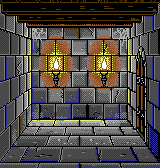
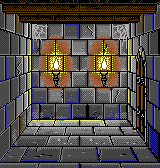
Catacombs rooms: dark beamed ceiling

Changed region(s): [[0.0, 0.0, 1.0, 0.2381]]

diff --git a/Catacombs/art/room_art.py b/Catacombs/art/room_art.py
@@ -167,8 +167,9 @@ def door(du, dv, state, tag, planks=4):
 # The ray caster: screen position -> (region id, material, texel a, texel b, level bias, X, Y, Z)
 # ---------------------------------------------------------------------------
 
-BEAMS = [(198.0, 12.0), (246.0, 11.0), (292.0, 10.0)]
-BEAM_Y = -26.5
+BEAMS = [(200.0, 9.0), (258.0, 9.0)]      # ceiling beams across the room: (depth, thickness)
+BEAM_Y = -27.5
+FIXED = 100.0                             # a level bias >= FIXED is a fixed level, not lit
 KIND = {'so': 'fl', 'pu': 'fl', 'gr': 'fl'}
 
 
@@ -245,12 +246,12 @@ def sample(sx, sy, cfg):
         return (('fl', row, idx), STONE, (u + off) % 48.0 / 3.0, w % 32.0 / 2.0, 0.0) + pos
     if s == 'ceil':
         u = x + XW
-        return (('ce', int(u // 24.0)), WOOD, ZF - z, u, 0.0) + pos
+        return (('ce', int(u // 32.0), z > 230.0), WOOD, ZF - z, u, FIXED + (0.5 if z > 268.0 else 0.0)) + pos
     kind, i = s
     u = x + XW
     if kind == 'beamF':
-        return (('bf', i), WOOD, u, (y - YC) * 2.0, 0.0) + pos
-    return (('bb', i), WOOD, u, (z - BEAMS[i][0]), 0.0) + pos
+        return (('bf', i, int((u + 40.0 * i) // 96.0)), WOOD, u, (y - YC) * 1.5, FIXED + (0.5, 0.5)[i]) + pos
+    return (('bb', i), WOOD, u, (z - BEAMS[i][0]), FIXED + (0.5, 1.5)[i]) + pos
 
 
 # ---------------------------------------------------------------------------
@@ -683,6 +684,8 @@ def render(cfg):
                 ramp = RAMPS[(mat, warm)]
                 top = len(ramp) - 1
                 lv = level_of(ew + ec) + bias + jitter + LEVEL_SHIFT[mat]
+                if bias >= FIXED:
+                    lv = bias - FIXED
                 lv = max(0.0, min(top - 1.0, math.floor(lv * 2.0 + 0.5) / 2.0))
                 if mat == STONE and warm == 0 and lv == 1.0:
                     lv = 1.5 if (hv >> 4) & 1 else 0.5          # never a flat blue face
@@ -694,7 +697,7 @@ def render(cfg):
                     ps = lo_
                 pm, ph = lv, min(top, hi_ + 1.0)
                 if mat == WOOD:
-                    ph = min(ph, 2.0)
+                    ph = min(ph, 2.0 if lv >= 1.0 else 1.0)
                 if mat == IRON:
                     ps, pm, ph = 0.0, 0.0, max(1.0, min(top, math.floor(lv + 1.0)))
                 elif mat == WATER:

diff --git a/Catacombs/RoomArt.cs b/Catacombs/RoomArt.cs
@@ -1,7 +1,7 @@
 // Generated by art/room_art.py -- do not edit; change the script and run it again.
 using C64Lib;
 
-[assembly: RawImage(Resource = "room.img", Label = "Room")]   // 4054 bytes
+[assembly: RawImage(Resource = "room.img", Label = "Room")]   // 4162 bytes
 [assembly: RawImage(Resource = "door_n.img", Label = "DoorN")]   // 517 bytes
 [assembly: RawImage(Resource = "door_n2.img", Label = "DoorN2")]   // 258 bytes
 [assembly: RawImage(Resource = "door_n3.img", Label = "DoorN3")]   // 204 bytes
